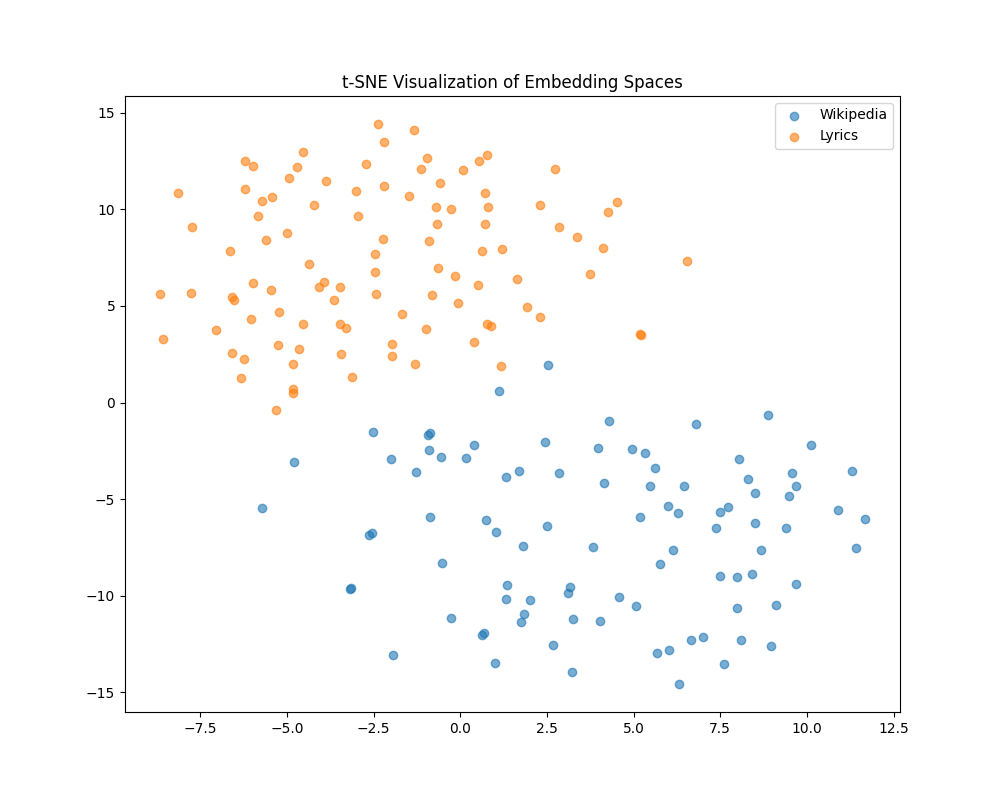
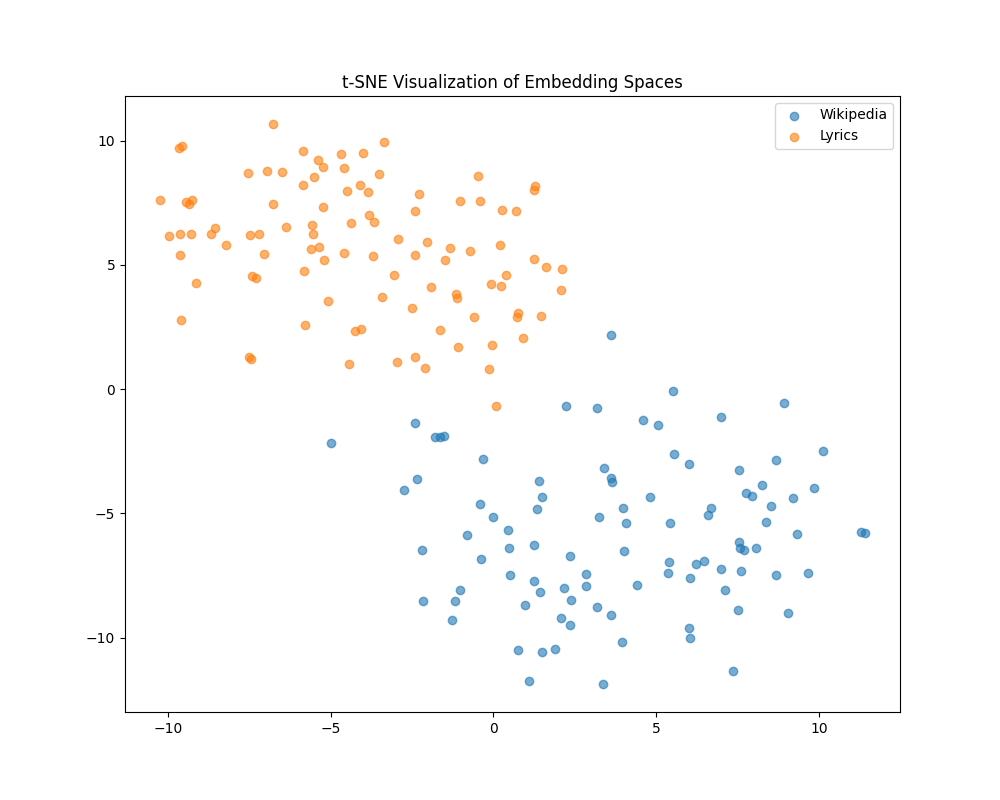
Documentation

diff --git a/docs/documentation.md b/docs/documentation.md
@@ -2,12 +2,56 @@
 
 ## Initial Ideas
 
-In the beginning my main idea was to do something with embeddings. A spacial representation of data just seemed interesting to me and wanted to have a go at this myself and pack it into a creative project. I searched for data, that is widely availlable and easy to process. I Wikipedia articles were the first thing that came to my mind. I quickly searched the web and found a python packege to retrieve them easily. 
+In the beginning, my main idea was to do something with embeddings. A spatial representation of data just seemed interesting to me, and I wanted to have a go at this myself and pack it into a creative project. I searched for data that is widely available and easy to process. Wikipedia articles were the first thing that came to my mind. I quickly searched the web and found a Python package to retrieve them easily.
 
-Now I needed something that I can compare the articles with. Nothing really came to my mind at first but a few days later,  i had the idea to match songs to wikipedia articles.
+Now I needed something that I could compare the articles with. Nothing really came to my mind at first, but a few days later, I had the idea to match songs to Wikipedia articles.
 
 ## Getting the Embeddings
 
-My main goal of this project was to let the algorithm do all the matching itself, without interference of a human. So i needed methods that require no labeling. Additionally, I wanted to use as many existing technologies, because the project seemed ambitious for a 3 credits module.
+### Initial Approach
+My main goal for this project was to let the algorithm do all the matching itself, without interference from a human. So, I needed methods that required no labeling. Additionally, I wanted to use as many existing technologies as possible because the project seemed ambitious for a 3-credit module.
 
-With those goals in mind, the only really effective way to compare songs to articles was via the lyrics. In order to create a good matching algorithm, the embeddings need to as homogeneous as possible
+With those goals in mind, the only really effective way to compare songs to articles was via the lyrics. To create a good matching algorithm, the embeddings needed to be as homogeneous as possible. This means the content of both texts should be as similar as possible before it gets converted to an embedding.
+
+I started off by trying to summarize the lyrics within 5 sentences using Gemini. For the Wikipedia articles, I already had a summary from the top of each page.
+
+This is what a prompt to the LLM looked like:
+
+    "Here are some lyrics from the song "
+    + title
+    + " by "
+    + artist
+    + ". Write me a summary of the song. Dont try to interpret the lyrics, just summarize them. Dont speak about the lyrics being in a song and refer to the author as 'A person'. Take the lyrics and just assume that they are true. Do it with 5 sentences and only return the summarized text:\n"
+    + lyrics,
+
+Now I plug the result into a pretrained Sentence-BERT, sum the embedding of each sentence, and normalize them. This is my final embedding of the 5 sentences.
+
+To check if the Wikipedia and lyrics embeddings are close by, I decided to use a dimensionality reduction method called TSNE so I could plot them in a 2D space. When I tested it with a random selection of songs and Wikipedia articles, the result was rather humbling:
+
+![Test 1](../graphs/Test.png)
+
+I played around a lot with the prompt and got similar results:
+
+![Test 2](../graphs/Test2.png)
+![Test 3](../graphs/Test3.png)
+
+### Keywords to the Rescue
+
+Clearly, a new approach was needed. I didn't want to change the whole pipeline, though, because I had already spent a lot of time researching and building pipelines. My research led me to a [Paper](https://sol.sbc.org.br/index.php/eniac/article/view/12155) hat did "Temporal Analysis and Visualization of Music." Inspired by this paper, I gave the keyword-based approach a go. Also, I used their dataset, which already has lemmatized lyrics of about 25,000 songs, so no more lyrics scraping on websites was required.
+
+Since I didn't want to copy their method entirely, I chose to go for another keyword extraction method and stumbled upon YAKE. Now I switched back to a regular BERT model and summed the embeddings of the top 10 keywords, normalizing them as well. This resulted in the following TSNE plot:
+
+![Final TSNE](<../graphs/Final Test.png>)
+
+While this doesn't look perfect, there definitely is more overlap between the embeddings. Without any other idea on how to improve my method, I decided to scale it to all 25,000 songs in my dataset. My intuition was that with a bigger sample size, we would have more individual songs that appear in the Wikipedia embeddings group.
+
+To visualize the final results, I added an interactive file called `tsne_plot.html` 
+
+## Matching
+The final matching is rather easy. We only need a good metric to tell us which lyrics embedding is closest to our desired Wikipedia embedding. The main contenders are Euclidean distance and cosine similarity. I chose to go for cosine similarity because it seems to be the standard.
+
+To do the matching, I actually use a vector database called Pinecone. Pinecone is not only used to store all my 25,000 lyrics embeddings, but you can also query for an embedding and get the top k closest to the specified embedding. This basically gets the job done for the matching part.
+
+## Gussing Game
+
+Thanks to the questioning of Laura at my final presentation, I decided to create a super simple guessing game where you try to outmatch the "AI" and find a more suitable song for a random Wikipedia article. You can find more about that on the installation and game tab.
